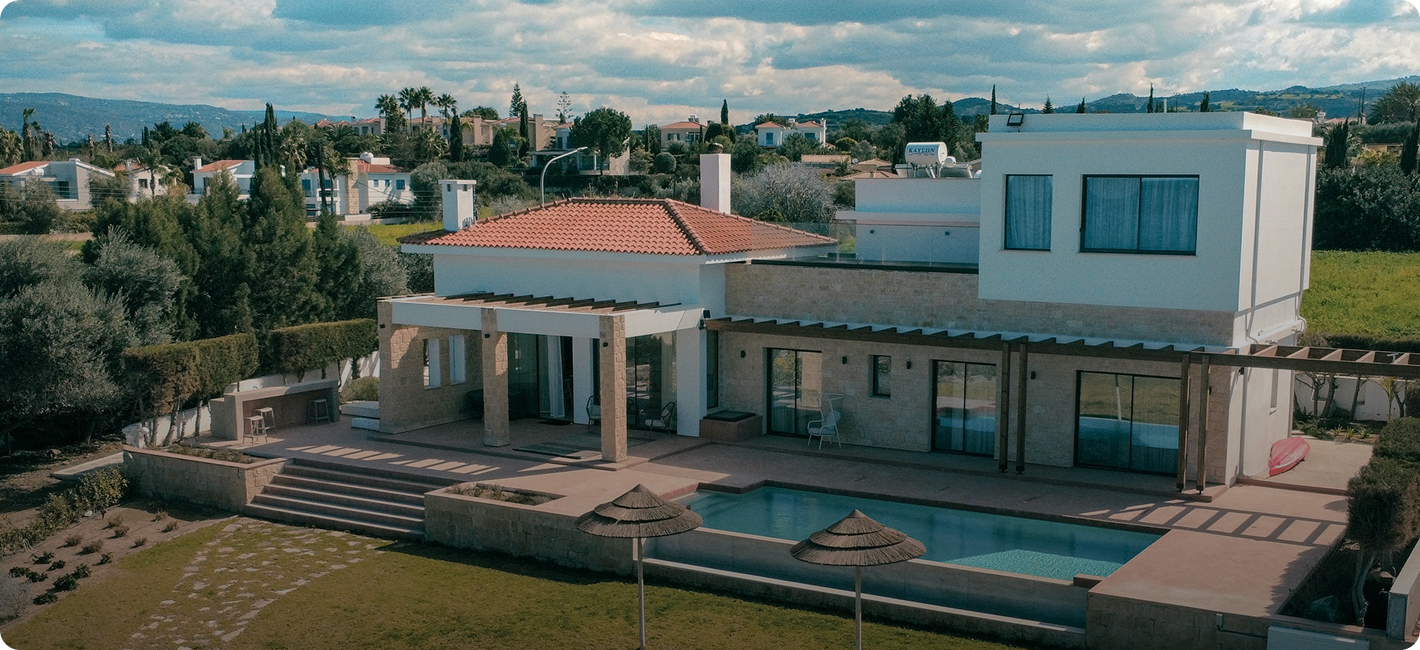
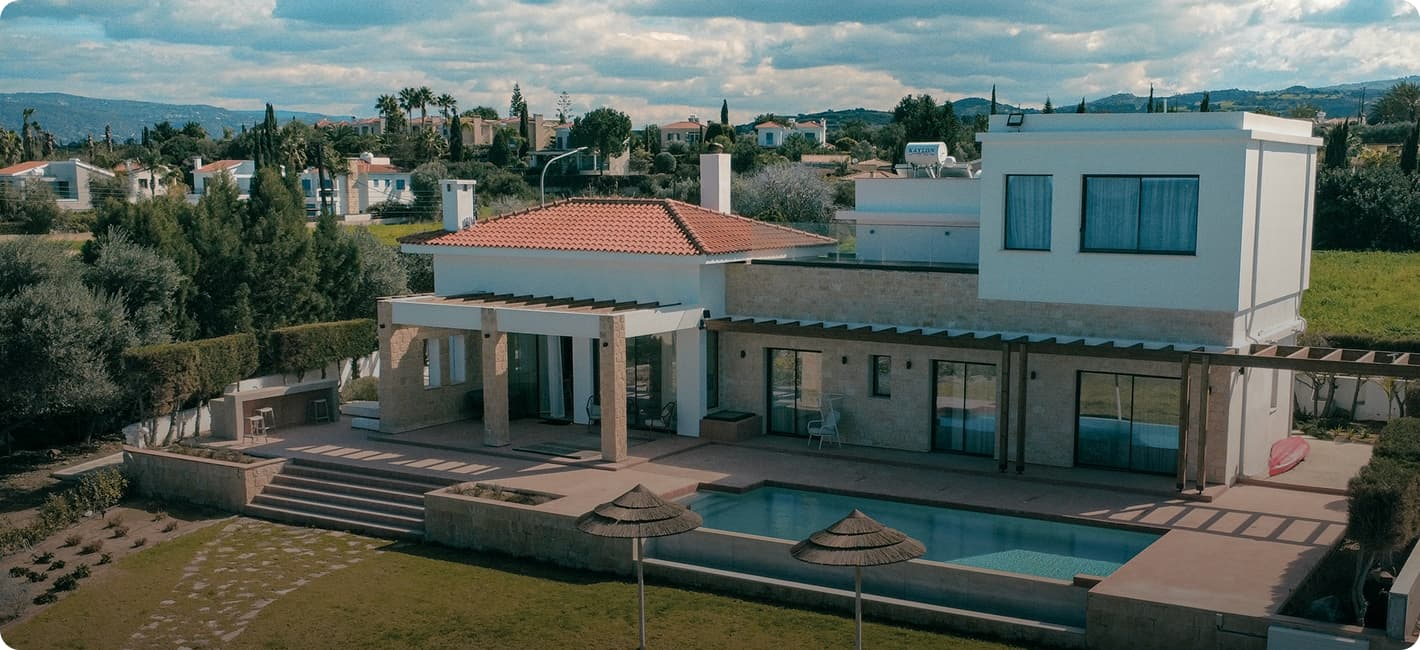
fix function scroll links

diff --git a/app/js/main.js b/app/js/main.js
@@ -34,9 +34,6 @@ $(document).ready(function () {
   ] */
 })
 
-
-
-
   // rooms tabs control
   $(function (params) {
   $('.rooms-tabs__button').on('click', function() {
@@ -85,28 +82,21 @@ $(function() {
   // Плавный скролл при клике на якоря
   $('a[href^="#"]').on('click', function(e) {
     e.preventDefault();
-    let target = $($(this).attr('href'));
-    if (target.length) {
-      $('html, body').animate({
-        scrollTop: target.offset().top
-      }, 800);
+    
+    let target = document.querySelector(this.getAttribute('href'));
+    
+    if (target) {
+      setTimeout(function(){
+        target.scrollIntoView({
+          behavior: 'smooth',
+          block: 'start'
+        });
+        $('.menu__block').removeClass('menu__block--active');
+        $('.menu__btn').removeClass('menu__btn--active');
+        $('body').removeClass('lock');
+      },100)
     }
-    $('body').removeClass('lock');
   });
-
-  // Плавный скролл при ЗАГРУЗКЕ страницы, если есть хеш
-  if (window.location.hash) {
-    setTimeout(function() {
-      let target = $(window.location.hash);
-      if (target.length) {
-        $('html, body').animate({
-          scrollTop: target.offset().top
-        }, 800);
-      }
-    }, 300); // небольшая задержка, чтобы успел прогрузиться контент
-  }
 });
-
-
 
 });

diff --git a/app/scss/_aboutus.scss b/app/scss/_aboutus.scss
@@ -157,5 +157,8 @@
     &__decsr {
       font-size: 32px;
     }
+    &__content {
+      font-size: 24px;
+    }
   }
 }

diff --git a/app/scss/_global.scss b/app/scss/_global.scss
@@ -1,5 +1,5 @@
 html {
-  scroll-behavior: auto;
+  scroll-behavior: smooth;
 }
 html,
 body {